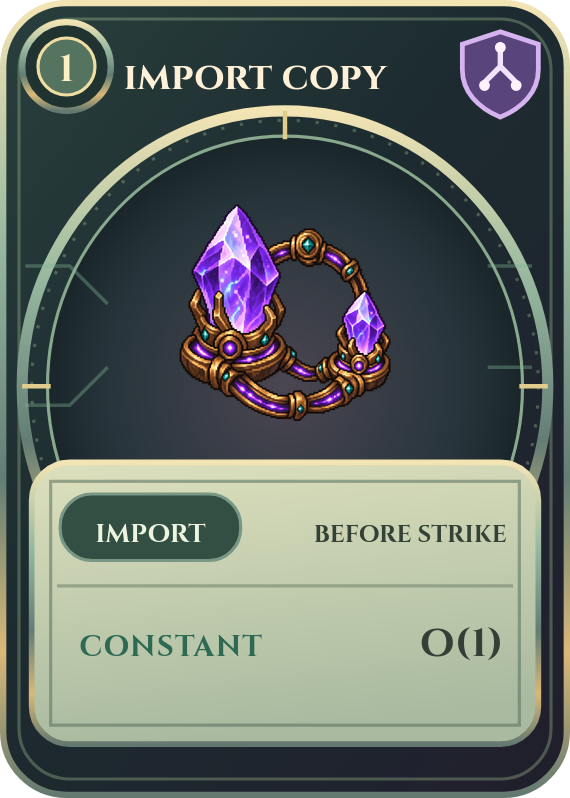
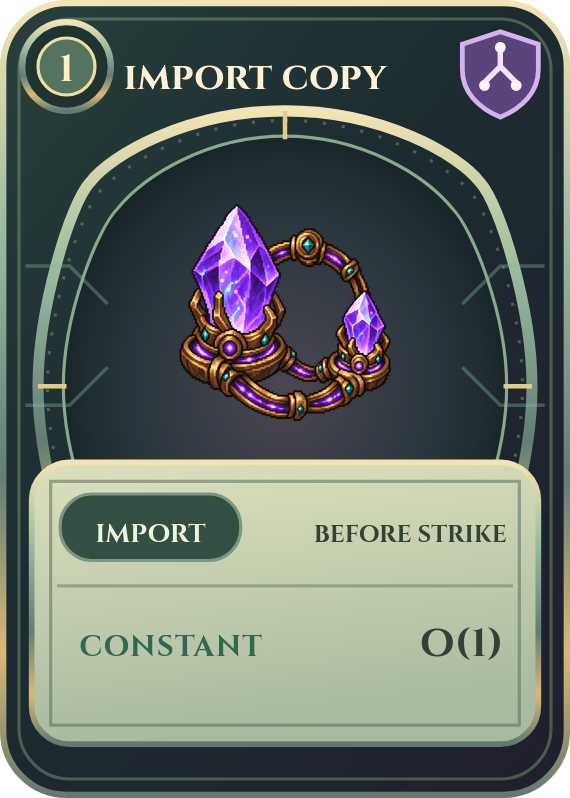
docs(cards): refine symmetric Rootglass halo

diff --git a/Concept/v0.2/cards/README.md b/Concept/v0.2/cards/README.md
@@ -9,6 +9,6 @@ Four portrait treatments of the same `import copy` card explore a Hearthstone-li
 | [Velvet Oracle](03-velvet-oracle.svg) · [preview](03-velvet-oracle-preview.png) | 192 × 270 | Jewel portrait, grimoire seal, and a small branching crest |
 | [Rootglass Halo](04-rootglass-halo.svg) · [preview](04-rootglass-halo-preview.png) | 190 × 266 | Segmented halo, quiet branching engravings, and a branching crest |
 
-The first two concepts try paradigm color as a soft violet portrait well; the last two use a compact branching crest in the upper-right corner. The crest silhouette can also use pewter for neutral cards, with a simple neutral mark. The shard remains 76 × 76 in the same position. Its 166 × 174 oval frame reaches very close to the title and side borders; the textbox masks the lower 33% of its area. The panel keeps only the role, timing, and complexity cues: `IMPORT`, `BEFORE STRIKE`, `CONSTANT`, and `O(1)`. The colored `CONSTANT` label sits on the left, with smaller neutral `O(1)` on the right. The card does not explain its effect, leaving the code as the place to learn what it does.
+The first two concepts try paradigm color as a soft violet portrait well; the last two use a compact branching crest in the upper-right corner. The crest silhouette can also use pewter for neutral cards, with a simple neutral mark. The shard remains 76 × 76 in the same position. Rootglass's frame has a 156 × 174 SVG-unit outline: its side edges move inward 5 units from the prior draft, while the 45°/135° shoulders extend slightly outward. The halo, dotted guide, ticks, and side engravings mirror around the centerline. The textbox masks the lower 33% of the frame. The panel keeps only the role, timing, and complexity cues: `IMPORT`, `BEFORE STRIKE`, `CONSTANT`, and `O(1)`. The colored `CONSTANT` label sits on the left, with smaller neutral `O(1)` on the right. The card does not explain its effect, leaving the code as the place to learn what it does.
 
 These concepts use the existing pixel art at `game/assets/shardrun/card-import-copy.png`. The current hand card is 164 × 227; these are about 15–17% wider and 16–19% taller. [The hand study](hand-hover-study.svg) shows the proposed resting crop with about 35 px hidden below the viewport and a fully raised, 16% enlarged hover card. No live UI or production art is changed here.
